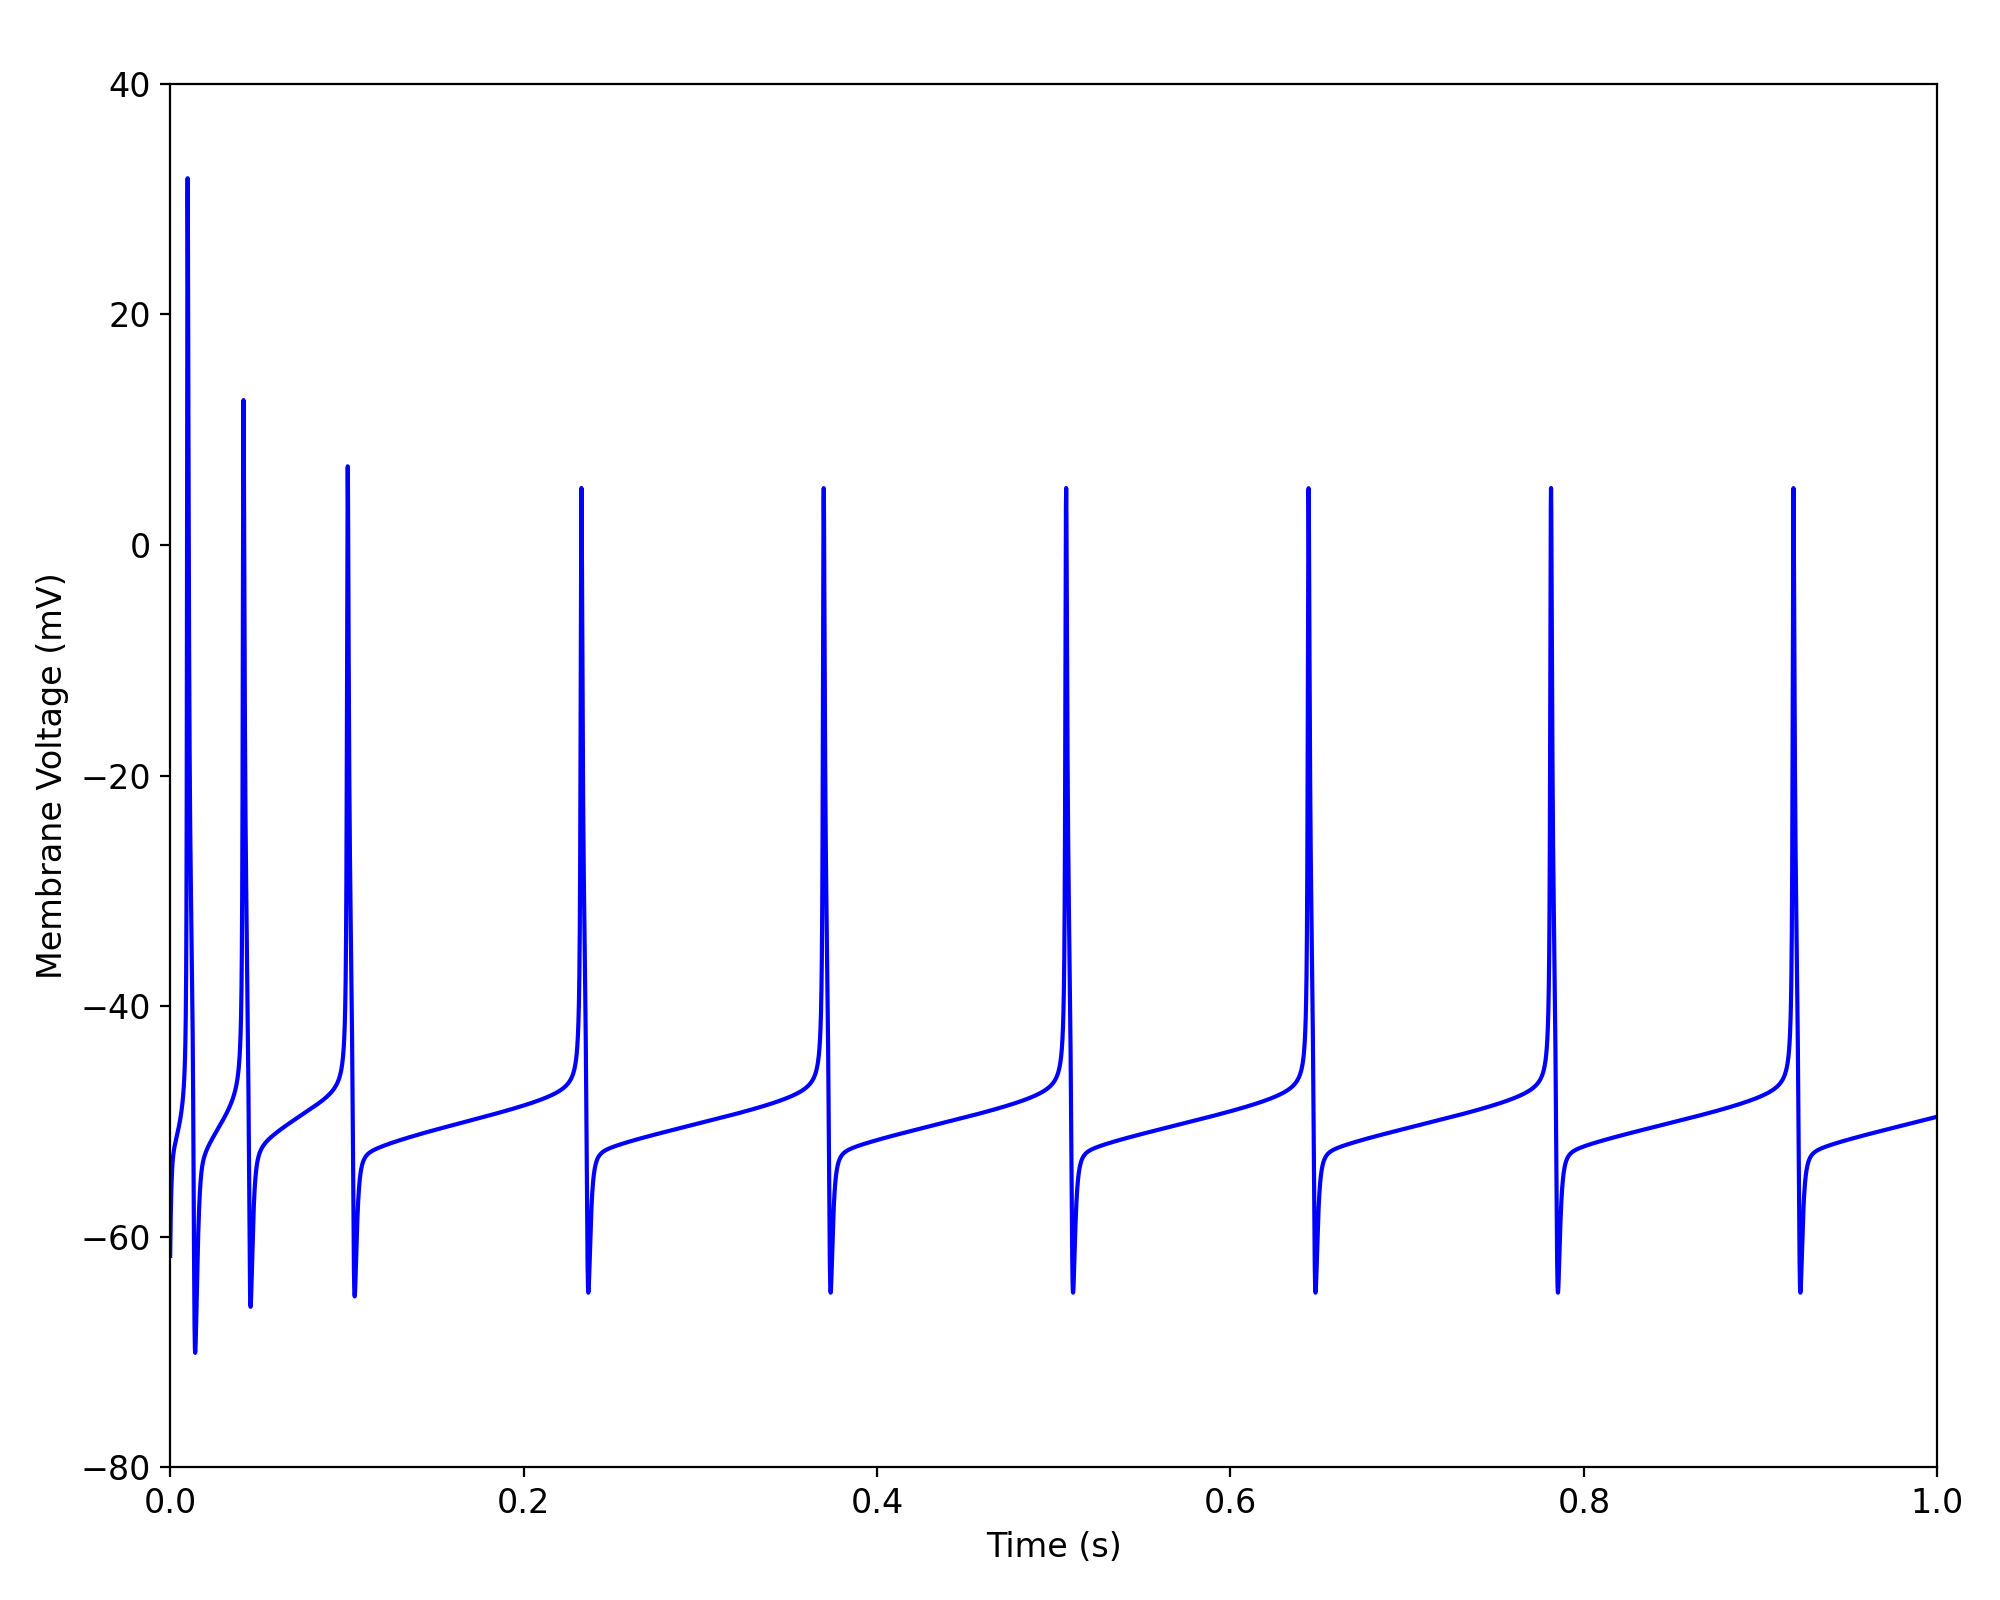
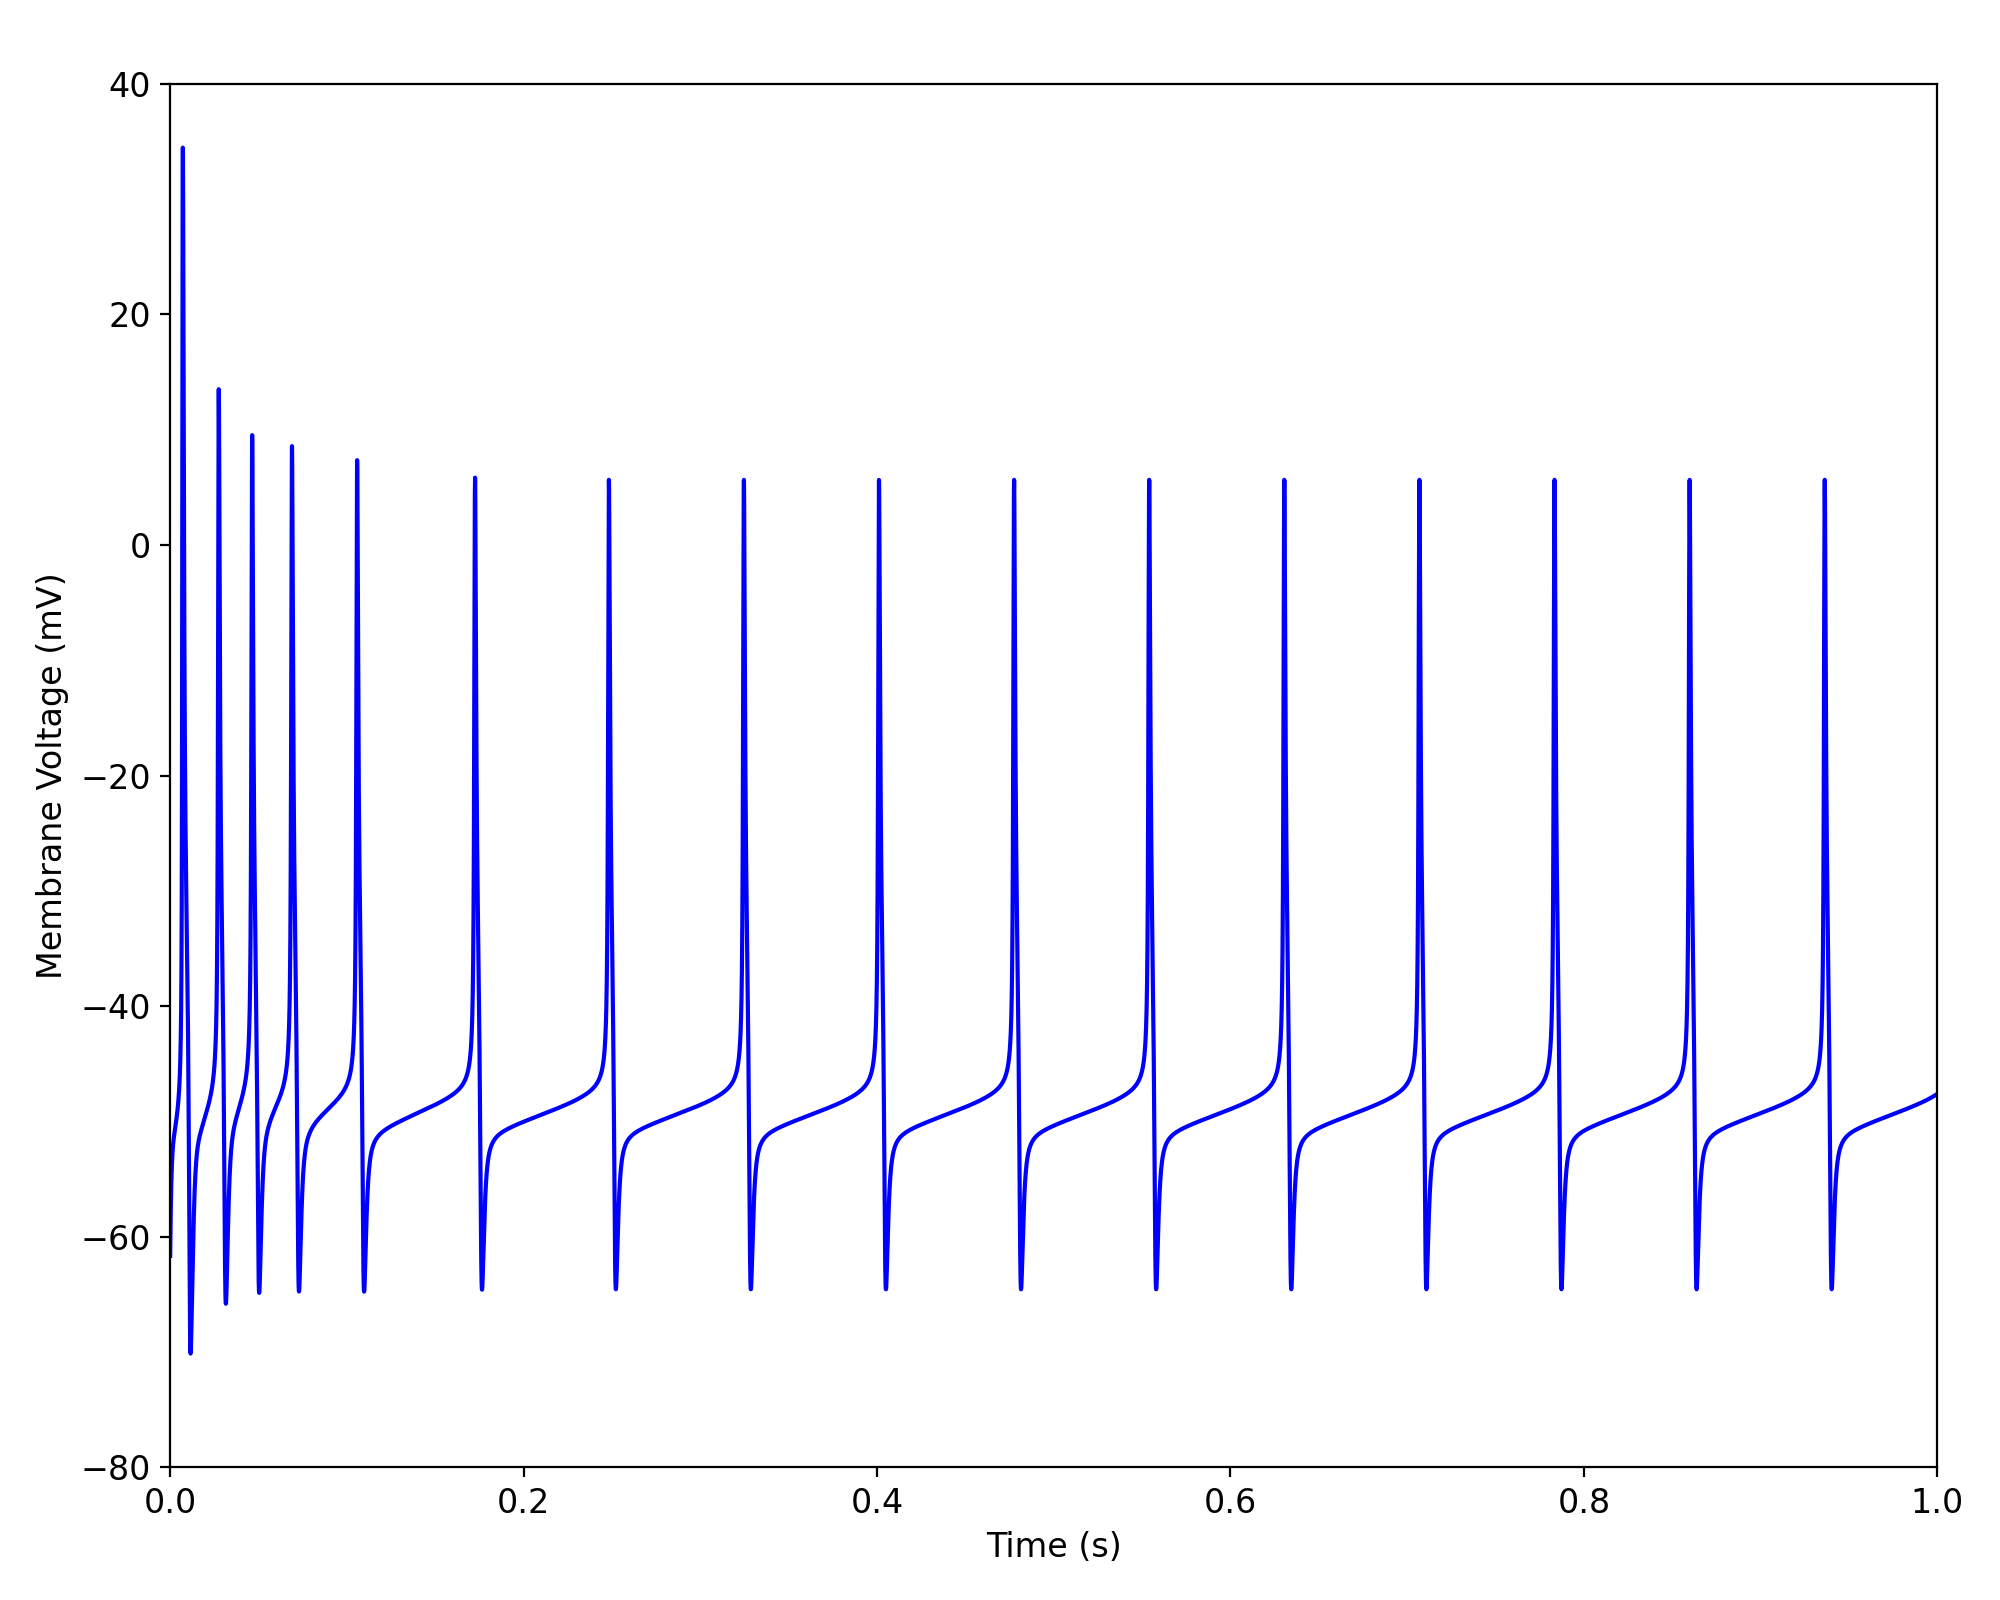
V1.0 working model, errors fixed, axes,title modified

diff --git a/netParams.py b/netParams.py
@@ -11,15 +11,15 @@ PYRcell['secs']['soma'] = {'geom': {}, 'mechs': {}}
 PYRcell['secs']['soma']['geom'] = {'diam': 30, 'L': 30, 'Ra': 123.0, 'cm': 0.884194128} 
 
 PYRcell['secs']['soma']['mechs']['pas'] = {'g': 1.768388, 'e': -43} 	#.001768388 * 1000
-#PYRcell['secs']['soma']['mechs']['Naf'] = {'gNabar': 0.106103295} 		#0.106103295
-#PYRcell['secs']['soma']['mechs']['KDR'] = {'gDrbar': 0.031830989} 		#0.031830989
-#PYRcell['secs']['soma']['mechs']['KAAR'] = {'gAbar': 0.005305165} 	#0.005305165
-#PYRcell['secs']['soma']['mechs']['KAAR'] = {'gARbar': 0.002122066} 	#0.002122066
-#PYRcell['secs']['soma']['mechs']['CaL'] = {'gcaLbar': 5.30516E-05}		#5.30516E-05
-#PYRcell['secs']['soma']['mechs']['CaN'] = {'gcaNbar': 7.07355E-05}		#7.07355E-05
-PYRcell['secs']['soma']['mechs']['AHP'] = {'gAHPbar': 0.008305165} 		#0.005305165
-#PYRcell['secs']['soma']['mechs']['SynE'] = {'tauE': 30, 'gnE': 0.000424413, 'eSynE': -10}
-PYRcell['secs']['soma']['mechs']['cabuff'] = {'vshell': 2.5e-13,'Btot': 0.03,'Kbuff': 0.001,'cai0': 5e-5,'dia': 30e4}
+PYRcell['secs']['soma']['mechs']['Naf'] = {'gNabar': 0.106103295} 		#0.106103295
+PYRcell['secs']['soma']['mechs']['KDR'] = {'gDrbar': 0.031830989} 		#0.031830989
+PYRcell['secs']['soma']['mechs']['KAAR'] = {'gAbar': 0.005305165} 		#0.005305165
+PYRcell['secs']['soma']['mechs']['KAAR'] = {'gARbar': 0.002122066} 		#0.002122066
+PYRcell['secs']['soma']['mechs']['CaL'] = {'gcaLbar': 5.30516E-05}		#5.30516E-05
+PYRcell['secs']['soma']['mechs']['CaN'] = {'gcaNbar': 7.07355E-05}		#7.07355E-05
+PYRcell['secs']['soma']['mechs']['AHP'] = {'gAHPbar': 0.005305165} 		#0.005305165
+PYRcell['secs']['soma']['mechs']['SynE'] = {'tauE': 30, 'gnE': 0.000424413, 'eSynE': -10} #0.000424413
+PYRcell['secs']['soma']['mechs']['cabuff'] = {'vshell': 2.8e-10,'Btot': 0.03,'Kbuff': 0.001,'cai0': 5e-5,'dia': 30}
 
 netParams.cellParams['PYR'] = PYRcell
 
@@ -32,28 +32,9 @@ for secName in PYRcell['secs']:
 		 
 ## Population parameters
 netParams.popParams['ragp'] = {'cellType': 'PYR', 'numCells': 1}
-#netParams.popParams['M'] = {'cellType': 'PYR', 'numCells': 20}
 
 # Stimulation parameters
-netParams.stimSourceParams['iclamp'] = {'type': 'IClamp', 'amp': 1000, 'dur': cfg.duration, 'delay': 0} #0.012*1000
+netParams.stimSourceParams['iclamp'] = {'type': 'IClamp', 'amp': 000, 'dur': cfg.duration, 'delay': 0} #1000
 netParams.stimTargetParams['iclamp->PYR'] = {'source': 'iclamp', 'conds': {'cellType': 'PYR'}, 'sec': 'soma', 'loc': 0.5}
 
-
-# Synaptic mechanism parameters
-#netParams.synMechParams['exc'] = {'mod': 'PN_SynE', 'tauE': 30.0, 'gnE': 10, 'eSynE': 10}  # excitatory synaptic mechanism
-#netParams.synMechParams['inh'] = {'mod': 'PN_SynI', 'tauI': 30.0, 'gnI': 0.0001, 'eSynI': -94}   # inhibitory synaptic mechanism
-#netParams.synMechParams['inh'] = {'mod': 'AlphaSynapse', 'onset': 40.0, 'tau': 30.0, 'gmax': 0, 'e': -94}  # inhibitory synaptic mechanism
-
-
-#netParams.stimSourceParams['bkg'] = {'type': 'NetStim', 'rate': 10, 'noise': 0.5}
-#netParams.stimTargetParams['bkg->PYR'] = {'source': 'bkg', 'conds': {'cellType': 'PYR'}, 'weight': cfg.stim_weight, 'delay': 5, 'synMech': 'exc'}
-
-## Cell connectivity rules
-# netParams.connParams['S->M'] = {'preConds': {'pop': 'S'}, 'postConds': {'pop': 'M'},  #  S -> M
-#     'probability': 0.5,         # probability of connection
-#     'weight': 0.01,             # synaptic weight 
-#     'delay': 5,                 # transmission delay (ms) 
-#     'sec': 'dend',              # section to connect to
-#     'loc': 1.0,                 # location of synapse
-#     'synMech': 'exc'}           # target synaptic mechanism
 

diff --git a/cfg.py b/cfg.py
@@ -9,24 +9,10 @@ cfg.duration = 1          # Duration of the simulation, in SEC
 cfg.dt = 0.000025                # Internal integration timestep to use
 cfg.verbose = False           # Show detailed messages 
 cfg.recordTraces = {'V_soma':{'sec':'soma','loc':0.5,'var':'v'}}
-#cfg.recordTraces['iNaf'] = {'sec':'soma','loc':0.5,'var':'ina_Naf'}
-#cfg.recordTraces['ikdr'] = {'sec':'soma','loc':0.5,'var':'ik_KDR'}
-#cfg.recordTraces['ika'] = {'sec':'soma','loc':0.5,'var':'ik_KAAR'}
-#cfg.recordTraces['ical'] = {'sec':'soma','loc':0.5,'var':'ica_CaL'}
-#cfg.recordTraces['ican'] = {'sec':'soma','loc':0.5,'var':'ica_CaN'}
-#cfg.recordTraces['iahp'] = {'sec':'soma','loc':0.5,'var':'ik_AHP'}
-#cfg.recordTraces['cai'] = {'sec':'soma','loc':0.5,'var':'cai_cabuff'}
-#cfg.recordTraces['iSynE'] = {'sec':'soma','loc':0.5,'var':'iSynE_SynE'}
-#cfg.recordTraces['gSynE'] = {'sec':'soma','loc':0.5,'var':'gSynE_SynE'}
 
 
 cfg.recordStep = 0.000025           # Step size in SEC to save data (eg. V traces, LFP, etc)
-#cfg.filename = 'ragpv1'         # Set file output name
+cfg.filename = 'ragpv1'         # Set file output name
 cfg.savePickle = False        # Save params, network and sim output to pickle file
 
-#cfg.analysis['plotRaster'] = {'saveFig': True}                  # Plot a raster
 cfg.analysis['plotTraces'] = {'include': [0, 1, 2], 'saveFig': False}  # Plot recorded traces for this list of cells
-#cfg.analysis['plot2Dnet'] = {'saveFig': True}                   # plot 2D cell positions and connections
-
-# Parameters to be varied
-#cfg.stim_weight = 0.0001  # Default value is 0.01

diff --git a/init.py b/init.py
@@ -12,12 +12,12 @@ sim.createSimulateAnalyze(netParams, cfg)
 sim.createSimulateAnalyze(netParams=netParams, simConfig=cfg)
 print("Finished sim.")  
 
-fig_dict, data_dict = sim.analysis.plotTraces()
+fig_dict, data_dict = sim.analysis.plotTraces(ylim=[-80,40])
 fig0 = fig_dict['_gid_0']
 for ax in fig0.axes:
     ax.set_xlabel('Time (s)')
     ax.set_ylabel('Membrane Voltage (mV)')
-fig0.savefig('example_plot_netpyne.png')
-
+    ax.set_title('')
+fig0.savefig('test_example_netpyne.png')
    
 
